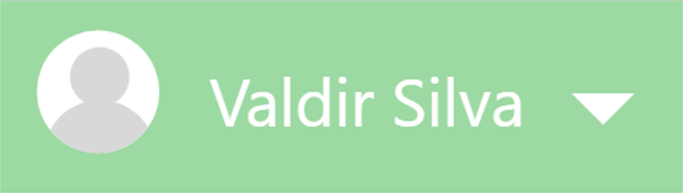
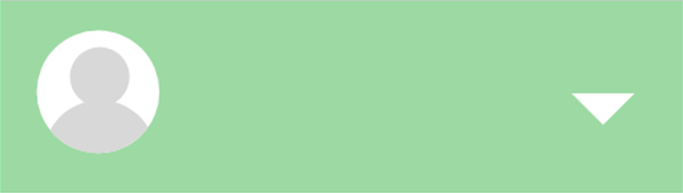
Salvar promocao funcionando

Changed region(s): [[0.3075, 0.4041, 0.7687, 0.6839]]

diff --git a/OndeComprar/src/interfaceGrafica/UsuarioHome.java b/OndeComprar/src/interfaceGrafica/UsuarioHome.java
@@ -11,9 +11,6 @@ import javax.swing.JFrame;
 import javax.swing.JPanel;
 import javax.swing.border.EmptyBorder;
 
-import DataBase.RepositorioUsuario;
-import DataBase.RepositorioUsuario;
-import DataBase.RepositorioProduto;
 import programa.Fachada;
 import programa.Produto;
 import programa.Usuario;
@@ -46,10 +43,10 @@ public class UsuarioHome extends JFrame {
 	private final JLabel lblMais = new JLabel("");
 	private final JLabel lblMais2 = new JLabel("");
 	JTable table;
-	JLabel lblProvisorio2 = new JLabel("");
 	JLabel lblPendentes = new JLabel("0");
 	JLabel lblAceitas = new JLabel("0");
 	JLabel lblRecusadas = new JLabel("0");
+	private final JLabel lblNickname = new JLabel("");
 	/**
 	 * Launch the application.
 	 */
@@ -80,6 +77,12 @@ public class UsuarioHome extends JFrame {
 		contentPane.setLayout(null);
 		
 		this.setLocationRelativeTo(null); // JANELA FICA NO CENTRO
+		lblNickname.setForeground(SystemColor.control);
+		
+		// NICKNAME
+		lblNickname.setBounds(630, 9, 92, 25);
+		contentPane.add(lblNickname);
+		// FIM NICKNAME
 		
 		//CONTA 2
 		ImageIcon conta3 = new ImageIcon(UsuarioHome.class.getResource("/img/usuarioHome/conta_bt3.png"));
@@ -153,9 +156,8 @@ public class UsuarioHome extends JFrame {
 		lblEditarPerfil.addMouseListener(new MouseAdapter() {
 			@Override
 			public void mouseClicked(MouseEvent arg0) {
-				RepositorioUsuario usuario = new RepositorioUsuario();
 				UsuarioConta frame3 = new UsuarioConta(); frame3.setVisible(true);
-				frame3.receber(usuario.buscarUsuario(Integer.parseInt(lblProvisorio2.getText())));
+				frame3.receber(Fachada.getInstance().buscarUsuario(lblNickname.getText()));
 				dispose();
 			}
 		});
@@ -217,9 +219,8 @@ public class UsuarioHome extends JFrame {
 		lblPesquisarprodutos2.addMouseListener(new MouseAdapter() {
 			@Override
 			public void mouseClicked(MouseEvent e) {
-				RepositorioUsuario cliente = new RepositorioUsuario();
 				UsuarioCatalogo frame4 = new UsuarioCatalogo(); frame4.setVisible(true);
-				frame4.receber(cliente.buscarUsuario(Integer.parseInt(lblProvisorio2.getText())));
+				frame4.receber(Fachada.getInstance().buscarUsuario(lblNickname.getText()));
 				dispose();
 			}
 		});
@@ -311,9 +312,8 @@ public class UsuarioHome extends JFrame {
 		lblMais2.addMouseListener(new MouseAdapter() {
 			@Override
 			public void mouseClicked(MouseEvent arg0) {
-				RepositorioUsuario cliente = new RepositorioUsuario();
 				UsuarioCatalogo frame4 = new UsuarioCatalogo(); frame4.setVisible(true);
-				frame4.receber(cliente.buscarUsuario(Integer.parseInt(lblProvisorio2.getText())));
+				frame4.receber(Fachada.getInstance().buscarUsuario(lblNickname.getText()));
 				dispose();
 			}
 		});
@@ -347,13 +347,6 @@ public class UsuarioHome extends JFrame {
 		scrollPane.setViewportView(table);
 		// FIM TABELA
 		
-		JLabel lblProvisorio = new JLabel("provisorio:");
-		lblProvisorio.setBounds(231, 110, 65, 14);
-		contentPane.add(lblProvisorio);
-		
-		lblProvisorio2.setBounds(297, 110, 66, 14);
-		contentPane.add(lblProvisorio2);
-		
 		// RECUSADAS
 		lblRecusadas.setForeground(UIManager.getColor("Button.shadow"));
 		lblRecusadas.setFont(new Font("SansSerif", Font.BOLD, 35));
@@ -373,6 +366,7 @@ public class UsuarioHome extends JFrame {
 		lblPendentes.setFont(new Font("SansSerif", Font.BOLD, 35));
 		lblPendentes.setBounds(445, 370, 73, 33);
 		contentPane.add(lblPendentes);
+		lblNickname.setFont(new Font("SansSerif", Font.PLAIN, 17));
 		// FIM PENDENTES
 		
 		//BG
@@ -399,8 +393,8 @@ public class UsuarioHome extends JFrame {
 	}
 	
 	public void receber (Usuario user){
-		lblProvisorio2.setText(Integer.toString(user.getId()));
 		table.setModel(Fachada.getInstance().listarReservasUser(user.getId()));
+		lblNickname.setText(user.getNome());
 		
 		table.getColumnModel().getColumn(0).setPreferredWidth(30);
 		table.getColumnModel().getColumn(1).setPreferredWidth(80); 

diff --git a/OndeComprar/src/DataBase/RepositorioEmpresa.java b/OndeComprar/src/DataBase/RepositorioEmpresa.java
@@ -219,4 +219,16 @@ public class RepositorioEmpresa extends BancoDeDados implements IRepositorioEmpr
 		}
     	return n;
 	}
+
+	@Override
+	public void salvarPromocao(String preco, String validade, String produto_id) {
+		try{
+			super.conectar();
+			String query = "INSERT INTO promocao (preco_promo, valida_ate, produto_id) VALUES('" + preco + "', '" + validade +"', '" + produto_id + "');";
+			this.statement.executeUpdate(query);
+			super.desconectar();
+		} catch (Exception e){
+			System.out.println("Inserir Promocao ERRO: " + e.getMessage());
+		}
+	}
 }

diff --git a/OndeComprar/src/interfaces/IRepositorioEmpresa.java b/OndeComprar/src/interfaces/IRepositorioEmpresa.java
@@ -18,6 +18,7 @@ public interface IRepositorioEmpresa {
 	public int reservasRecusadasEmpresa(int id);
 	public int promocoesAtivas(int id, String data);
 	public int promocoesAcabando(int id, String data);
+	public void salvarPromocao(String preco, String validade, String produto_id);
 	public Reserva tabelaParaTelaEmpresa(int id);
 	public void aceitarReserva(int id);
 	public void recusarReserva(int id);

diff --git a/OndeComprar/src/programa/Fachada.java b/OndeComprar/src/programa/Fachada.java
@@ -104,6 +104,9 @@ public class Fachada {
 		public int promocoesAcabando(int id, String data) {
 			return empresas.promocoesAcabando(id, data);
 		}
+		public void salvarPromocao(String preco, String validade, String produto_id) {
+			empresas.salvarPromocao(preco, validade, produto_id);
+		}
 		public int reservasRecusadasEmpresa(int id){
 			return empresas.reservasRecusadasEmpresa(id);
 		}

diff --git a/OndeComprar/src/programa/ControleEmpresas.java b/OndeComprar/src/programa/ControleEmpresas.java
@@ -72,4 +72,9 @@ public class ControleEmpresas implements IRepositorioEmpresa{
 		return repositorioEmpresa.promocoesAcabando(id, data);
 	}
 
+	@Override
+	public void salvarPromocao(String preco, String validade, String produto_id) {
+		repositorioEmpresa.salvarPromocao(preco, validade, produto_id);
+	}
+
 }
